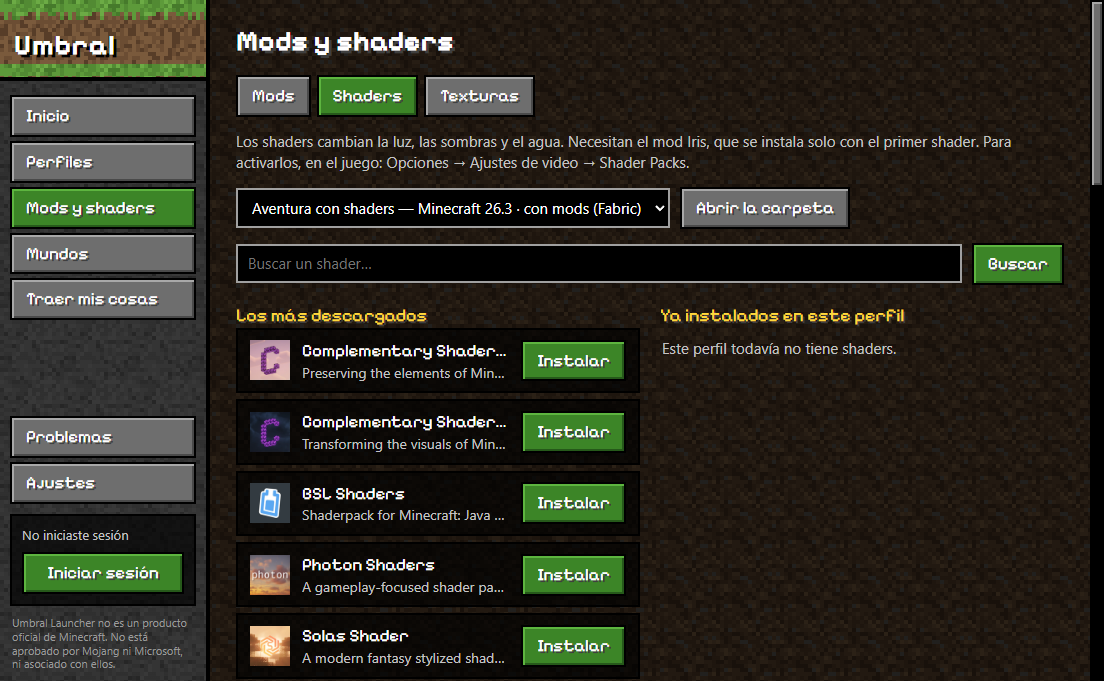
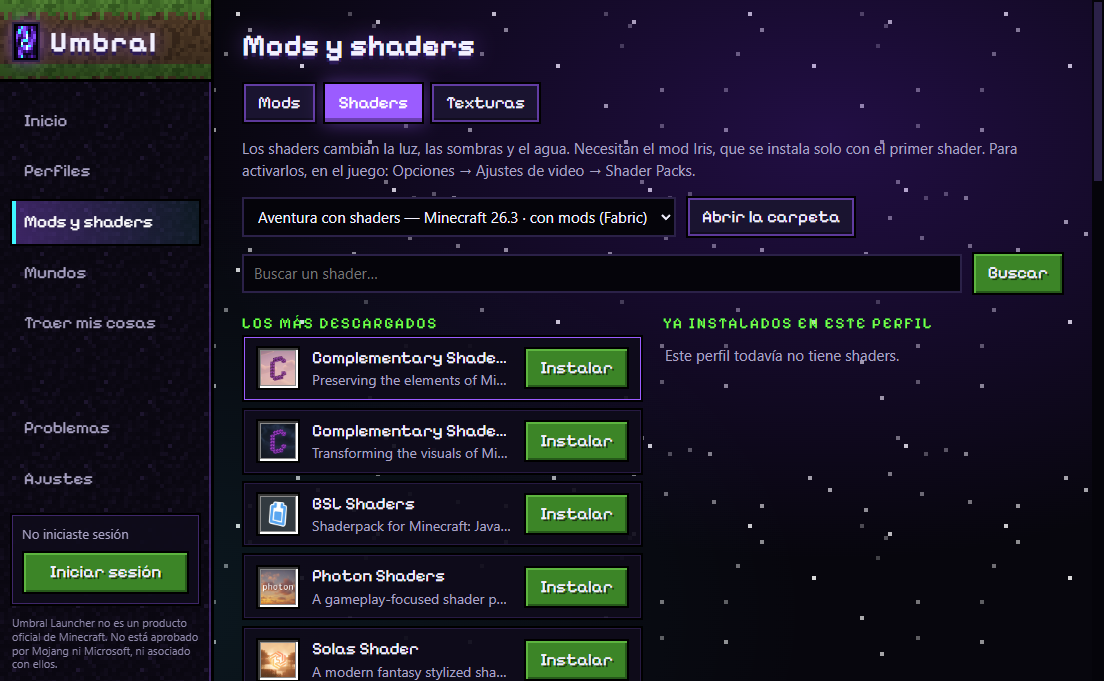
Give the launcher the website's look and release 0.2.0
Dark violet night with a pixel starfield, umbra-stone sidebar with a
small animated portal rift, neon-rimmed panels and buttons, inventory
slots for mod icons and tooltip-style notices. Website screenshots are
retaken from the new interface.

diff --git a/index.html b/index.html
@@ -535,7 +535,7 @@
 
   <script>
     document.documentElement.classList.add('js')
-    const RELEASE = { version: '0.1.0', size: '117 MB', url: 'https://github.com/lautaroleuchuk6-cmd/umbral-launcher/releases/latest/download/UmbralLauncher-Setup.exe' }
+    const RELEASE = { version: '0.2.0', size: '116 MB', url: 'https://github.com/lautaroleuchuk6-cmd/umbral-launcher/releases/latest/download/UmbralLauncher-Setup.exe' }
     const still = matchMedia('(prefers-reduced-motion: reduce)').matches
     const $ = (s) => document.querySelector(s)
 
